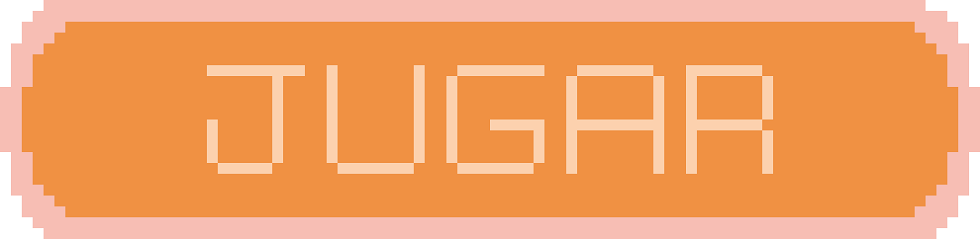
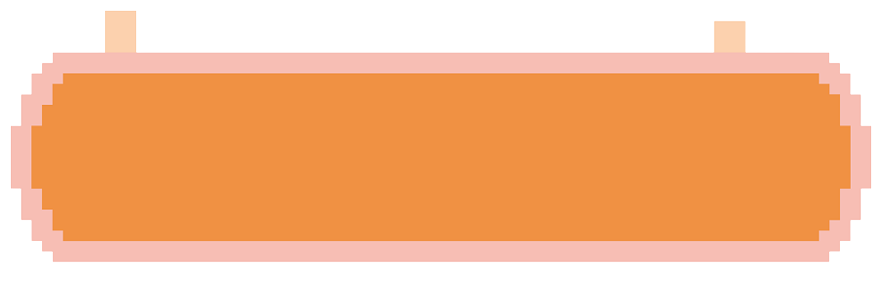
se cambiaron assets y se acomodaron fondos y botones

diff --git a/src/scenes/Preload.js b/src/scenes/Preload.js
@@ -14,14 +14,19 @@ export default class Preload extends Phaser.Scene {
 	preload()
     {
         //this.load.image("menu", "assets/images/menu.png");
-        this.load.image("jugar", "assets/images/jugar.png", 120, 40);
-        this.load.image("mapa", "assets/images/mapa.png");
-        this.load.image("boton_menu", "assets/images/boton_menu.png");
-        this.load.image("siguiente", "assets/images/siguiente.png");
-        this.load.image("atras", "assets/images/atras.png");
-        this.load.image("boton_bosque", "assets/images2/boton_bosque.png");
+        //this.load.image("jugar", "assets/images/jugar.png", 120, 40);
+        //this.load.image("mapa", "assets/images/mapa.png");
+        //this.load.image("boton_menu", "assets/images/boton_menu.png");
+        //this.load.image("siguiente", "assets/images/siguiente.png");
+        //this.load.image("atras", "assets/images/atras.png");
+        this.load.image("boton_mapa", "assets/images2/boton_mapa.png");
+        this.load.image("boton_flecha", "assets/images2/boton_flecha.png");
+        this.load.image("boton_pausa", "assets/images2/boton_pausa.png");
+        this.load.image("boton_puntos", "assets/images2/boton_puntos.png");
+        this.load.image("boton_temporizador", "assets/images2/boton_temporizador.png");
         this.load.image("boton_info", "assets/images2/boton_info.png");
         this.load.image("boton_menu", "assets/images2/boton_menu.png");
+        this.load.image("creditos_ajustes", "assets/images2/creditos_ajustes.png");
         this.load.image("carta_bloqueada", "assets/images2/carta_bloqueada.png");
         this.load.image("reverso", "assets/images2/reverso.png");
         this.load.image("fondo_nivel1", "assets/images2/fondo_nivel1.png");
@@ -55,9 +60,13 @@ export default class Preload extends Phaser.Scene {
         this.load.image("torta", "assets/images/torta.png");
         this.load.image("ganaste", "assets/images/ganaste.png");
         this.load.image("perdiste", "assets/images/perdiste.png");
+        
         this.load.spritesheet("sprite_alicia", "assets/images2/sprite_alicia.png",
-        { frameWidth: 122, frameHeight: 208 });
-    
+        { frameWidth: 123, frameHeight: 208 });
+
+        this.load.spritesheet("sprite_gato", "assets/images2/sprite_gato.png",
+        { frameWidth: 85, frameHeight: 55 });
+      
         
         
         //this.load.audio('alicia_al_rescate', 'assets/sounds/alicia_al_rescate.mp3',
@@ -72,7 +81,7 @@ export default class Preload extends Phaser.Scene {
       // Pasa directamente a la escena del menú principal
       this.scene.start("MenuPrincipal");
 
-      //agregar animación Alicia
+      //agregar animación Alicia (en pantalla Ganaste)
       this.add.sprite(200, 1200, "sprite_alicia");
       this.anims.create({
         key: "animacion_alicia",
@@ -81,6 +90,18 @@ export default class Preload extends Phaser.Scene {
           end: 4,
         }),
         frameRate: 4,
+        repeat: -1,
+      });
+
+      //agregar animacioón Gato (en pantalla Perdiste)
+      this.add.sprite(200, 1800, "sprite_gato");
+      this.anims.create({
+        key: "animacion_gato",
+        frames: this.anims.generateFrameNumbers("sprite_gato", {
+          start: 0,
+          end: 7,
+        }),
+        frameRate: 7,
         repeat: -1,
       });
     }

diff --git a/src/scenes/Juego.js b/src/scenes/Juego.js
@@ -53,19 +53,19 @@ export default class Juego extends Phaser.Scene {
       )
       .setScale(1.1);
 
-    this.add.image(400, 100, "temporizador");
-    this.add.image(120, 100, "puntos");
-    this.puntos = this.add.text(130, 60, corazones.toString(), {
+    this.add.image(400, 100, "boton_temporizador").setScale(1.0);
+    this.add.image(150, 100, "boton_puntos").setScale(1.0);
+    this.puntos = this.add.text(150, 70, corazones.toString(), {
       fontFamily: "Rockwell",
-      fontSize: 70,
-      color: "#000000",
+      fontSize: 60,
+      color: "#FCE4CA",
     });
 
     //clic
     //this.clic = this.sound.add("clic");
 
     // Boton para volver al menu principal
-    const menu = this.add.image(600, 100, "boton_menu").setScale(1.1);
+    const menu = this.add.image(650, 100, "boton_menu").setScale(1.0);
     menu.setInteractive();
     menu.on("pointerdown", () => this.scene.start("MenuPrincipal"));
     //this.clic.play();
@@ -78,10 +78,10 @@ export default class Juego extends Phaser.Scene {
       callbackScope: this,
       loop: true,
     });
-    this.timeText = this.add.text(340, 60, this.tiempo.toString(), {
+    this.timeText = this.add.text(390, 70, this.tiempo.toString(), {
       fontFamily: "Rockwell",
-      fontSize: 70,
-      color: "#000000",
+      fontSize: 60,
+      color: "#FCE4CA",
     });  
 
     //console.log("coincidencias ", this.coincidencias)

diff --git a/src/scenes/Perdiste.js b/src/scenes/Perdiste.js
@@ -17,7 +17,17 @@ export default class Perdiste extends Phaser.Scene
       let derrota = false;
     
       // Fondo del menú principal
-    this.add.image(this.cameras.main.centerX, this.cameras.main.centerY, "reina").setScale(1.1);
+    this.add.image(this.cameras.main.centerX, this.cameras.main.centerY, "castillo").setScale(1.1);
+    this.perdiste= this.add.image (this.cameras.main.centerX, 300, 'creditos_ajustes').setScale(0.7);
+        this.perdiste = this.add.text(100, 245, '¡PERDISTE!', {
+            fontFamily: "Rockwell",
+            fontSize: 100,
+            color: "#000000",
+          });
+
+    let miSprite = this.add.sprite(this.cameras.main.centerX, 900,"sprite_gato").setScale(3.5);
+    miSprite.anims.play('animacion_gato',true);
+
 
     //clic
     //this.clic = this.sound.add('clic');
@@ -28,7 +38,7 @@ export default class Perdiste extends Phaser.Scene
     //}
 
     // Boton para volver a Menu principal
-    var menu = this.add.image(600, 1400, 'atras').setScale(0.26)
+    var menu = this.add.image(600, 1400, 'boton_flecha').setScale(0.25)
     menu.setInteractive()
     menu.on('pointerdown', () => this.scene.start('MenuPrincipal'));
     //this.clic.play();

diff --git a/src/scenes/MenuPrincipal.js b/src/scenes/MenuPrincipal.js
@@ -26,20 +26,25 @@ export default class MenuPrincipal extends Phaser.Scene
     
 
     // Boton para comenzar a jugar
-    let jugar = this.add.image(360, 400, 'jugar_boton').setScale(0.1)
+    let jugar = this.add.image(this.cameras.main.centerX, 600, 'jugar_boton').setScale(0.5);
+    this.jugar = this.add.text(265, 575, 'JUGAR', {
+      fontFamily: "Rockwell",
+      fontSize: 60,
+      color: "#FCE4CA",
+    });
     jugar.setInteractive()
     jugar.on('pointerdown', () => this.scene.start('MapaNiveles'));
     //this.clic.play();
 
     //Boton ayuda
-    let ayuda = this.add.image(200,1300, 'boton_info').setScale(0.26)
+    let ayuda = this.add.image(120,1400, 'ayuda').setScale(1.0)
     ayuda.setInteractive()
-    ayuda.on('pointerdown', () => this.scene.start('Ayuda'));
+    ayuda.on('pointerdown', () => this.scene.start('Creditos'));
     //this.clic.play();
 
 
     //Boton ajustes
-    let ajustes = this.add.image(500,1300, 'ajustes').setScale(0.26)
+    let ajustes = this.add.image(600,1400, 'ajustes').setScale(1.0)
     ajustes.setInteractive()
     ajustes.on('pointerdown', () => this.scene.start('Ajustes'));
     //this.clic.play();

diff --git a/src/scenes/Ganaste.js b/src/scenes/Ganaste.js
@@ -24,15 +24,22 @@ export default class Ganaste extends Phaser.Scene
 
         // Fondo del menú principal
         this.add.image(this.cameras.main.centerX, this.cameras.main.centerY, "jardin").setScale(1.1);
+        this.ganaste = this.add.image ( this.cameras.main.centerX, 300, 'creditos_ajustes').setScale(0.7);
+        this.ganaste = this.add.text(100, 245, '¡GANASTE!', {
+            fontFamily: "Rockwell",
+            fontSize: 100,
+            color: "#000000",
+          });
+
 
         
-        let miSprite = this.add.sprite(this.cameras.main.centerX, 700,"sprite_alicia").setScale(3.5);
+        let miSprite = this.add.sprite(this.cameras.main.centerX, 1200,"sprite_alicia").setScale(2.5);
          miSprite.anims.play('animacion_alicia',true);
 
   
         
         // Boton para volver a Menu principal
-        let menu = this.add.image(600, 1400, 'atras').setScale(0.26)
+        let menu = this.add.image(600, 1400, 'boton_flecha').setScale(0.25)
         menu.setInteractive()        
         menu.on('pointerdown', () => this.scene.start('MapaNiveles', {
             nivel: this.nivel, 

diff --git a/src/utilites/cartasPorNivel.js b/src/utilites/cartasPorNivel.js
@@ -91,28 +91,28 @@ const cartasPorNivel = {
     tiempo: 40,
     tipos: [1, 1, 2, 2, 3, 3, 4, 4, 5, 5, 6, 6, 7, 7, 8, 8],
     coordenadas: [
-      [115, 415],
-      [275, 415],
-      [435, 415],
-      [595, 415],
-      [115, 695],
-      [275, 695],
-      [435, 695],
-      [595, 695],
-      [115, 975],
-      [275, 975],
-      [435, 975],
-      [595, 975],
-      [115, 1255],
-      [275, 1255],
-      [435, 1255],
-      [595, 1255],
+      [105, 415],
+      [265, 415],
+      [425, 415],
+      [585, 415],
+      [105, 695],
+      [265, 695],
+      [425, 695],
+      [585, 695],
+      [105, 975],
+      [265, 975],
+      [425, 975],
+      [585, 975],
+      [105, 1255],
+      [265, 1255],
+      [425, 1255],
+      [585, 1255],
     ],
     //En el segundo 25 aparece la reina y mezcla las cartas que quedan
-    //if (this.tiempo ===25){
+    //if (this.tiempo === 25) {
     //this.numeros = cartasPorNivel[String(this.nivel)].tipos;
     //this.numeros = this.numeros.sort(() => (Math.random() > 0.5 ? 1 : -1));
-    //}
+    //},
   },
 };
 

diff --git a/src/scenes/MapaNiveles.js b/src/scenes/MapaNiveles.js
@@ -32,11 +32,24 @@ export default class MapaNiveles extends Phaser.Scene {
     //this.scene.start("juego", { nivel: this.nivelActual });
 
     // comenzar a jugar
-    let juego = this.add.image(500, 950, "siguiente").setScale(0.26);
+    let juego = this.add.image(this.cameras.main.centerX, 820, "boton_mapa").setScale(0.5);
+    this.jugar = this.add.text(240, 800, 'BOSQUE', {
+      fontFamily: "Rockwell",
+      fontSize: 60,
+      color: "#FCE4CA",
+    });
     juego.setInteractive();
     juego.on("pointerdown", () => this.scene.start("Juego", {nivel: this.nivel, corazones: this.corazones}));
     //this.click.play();
-  }
+  
+
+  // Boton para volver al menu principal
+  const menu = this.add.image(350, 1000, "boton_menu").setScale(1.0);
+  menu.setInteractive();
+  menu.on("pointerdown", () => this.scene.start("MenuPrincipal"));
+  //this.clic.play();
+
+}
 
   update() {}
 }
